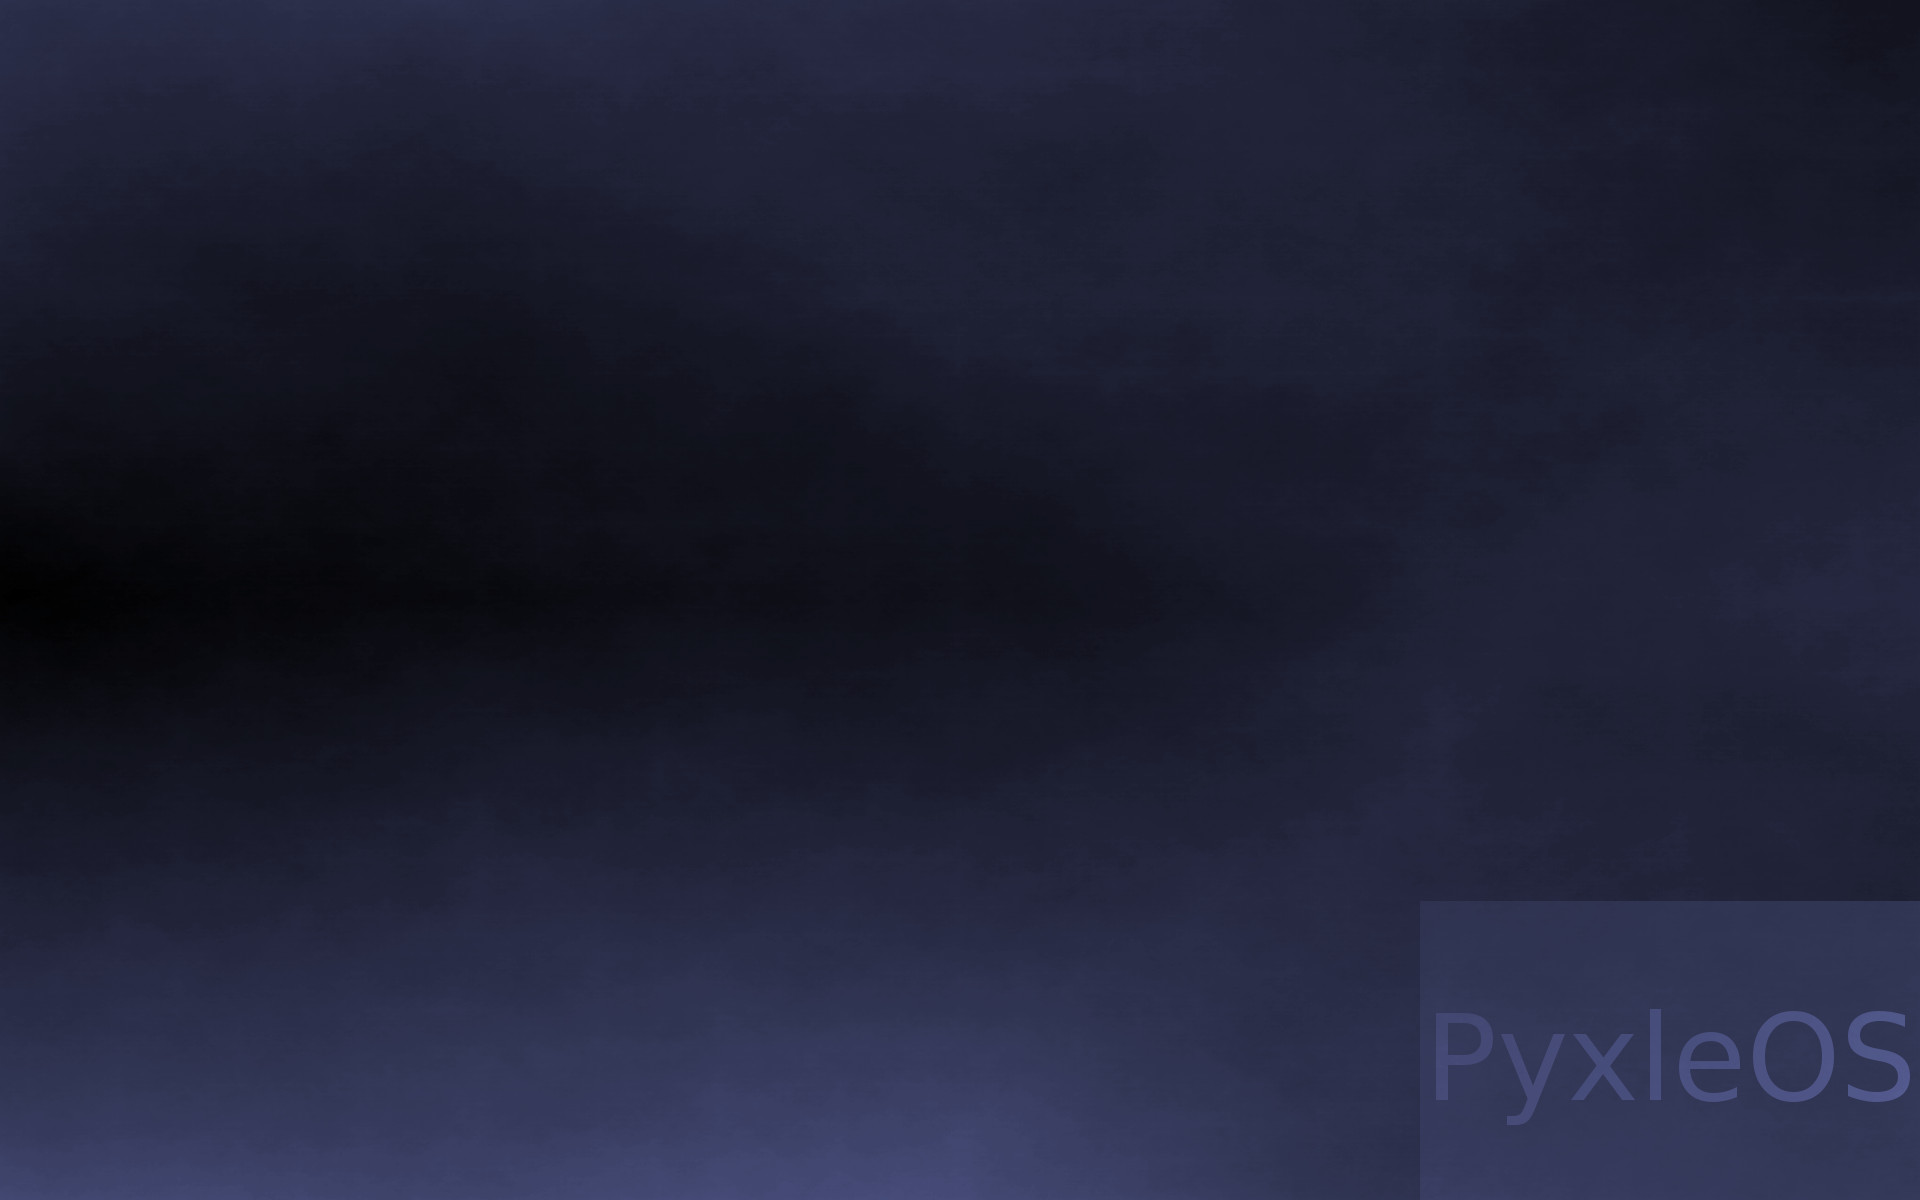
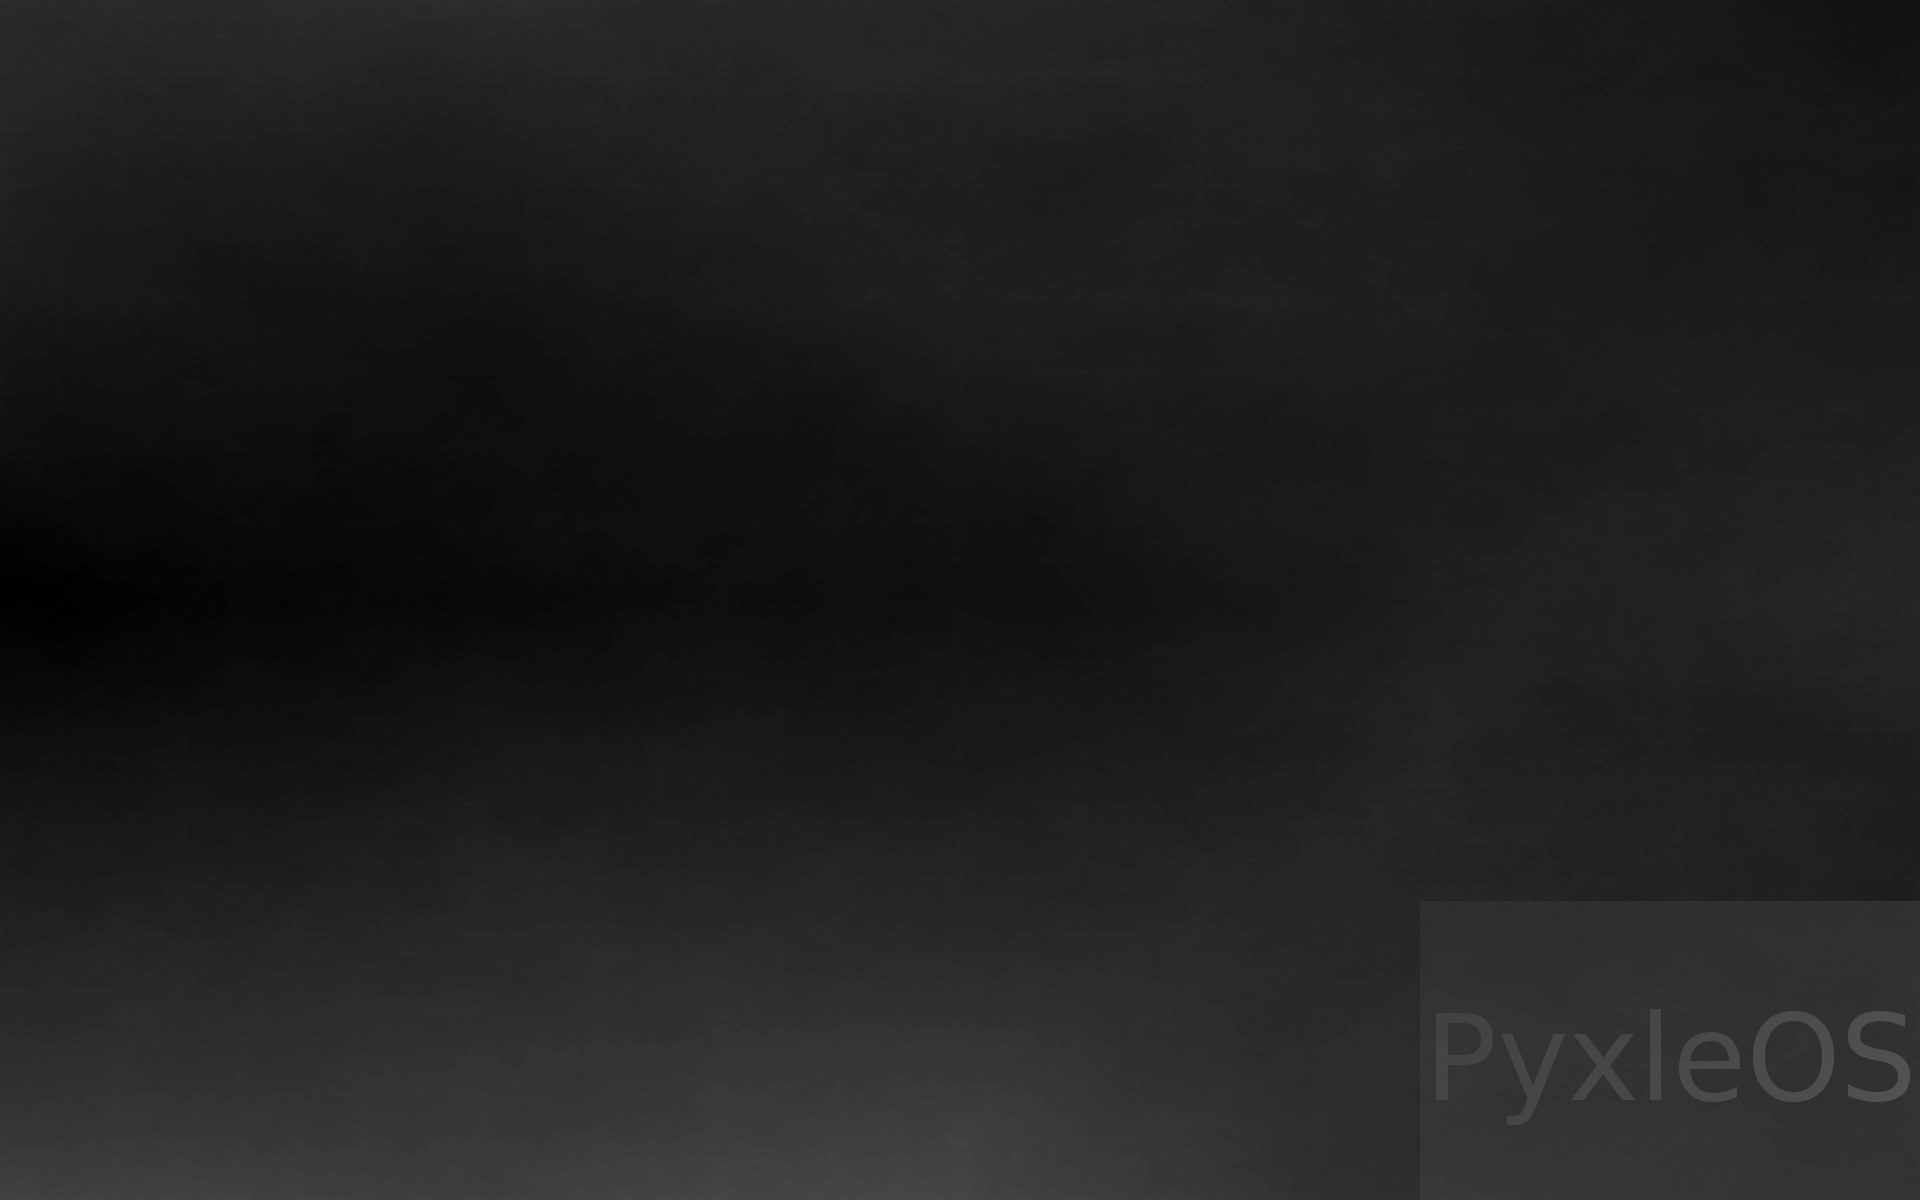
UI customization in runtime works

diff --git a/src/main/java/com/dakkra/pyxleos/ui/UISettingsView.java b/src/main/java/com/dakkra/pyxleos/ui/UISettingsView.java
@@ -1,8 +1,11 @@
 package com.dakkra.pyxleos.ui;
 
+import java.awt.Color;
 import java.awt.FlowLayout;
+import java.awt.event.ActionEvent;
+import java.awt.event.ActionListener;
 
-import javax.swing.JButton;
+import javax.swing.JColorChooser;
 import javax.swing.JInternalFrame;
 import javax.swing.JLabel;
 import javax.swing.JPanel;
@@ -24,28 +27,39 @@ public class UISettingsView {
 		JInternalFrame frame = Util.createIFrame("Appearance");
 
 		FlowLayout layout = new FlowLayout();
-		layout.setAlignment(FlowLayout.LEFT);
+		layout.setAlignment(FlowLayout.RIGHT);
 
 		JPanel bgColorPanel = new JPanel();
 		bgColorPanel.setLayout(layout);
+		bgColorPanel.setBackground(Color.DARK_GRAY.darker());
 		bgColorPanel.add(new JLabel("BG Color: "));
 		ColorButton bgColorButton = new ColorButton(uis.getbgColor());
+		bgColorButton.addActionListener(new BGColorButtonEar(bgColorButton));
 		bgColorPanel.add(bgColorButton);
 
 		JPanel baseColorPanel = new JPanel();
 		baseColorPanel.setLayout(layout);
+		baseColorPanel.setBackground(Color.DARK_GRAY.darker());
 		baseColorPanel.add(new JLabel("Base Color: "));
-		baseColorPanel.add(new JButton("Color"));
+		ColorButton baseColorButton = new ColorButton(uis.getbaseColor());
+		baseColorButton.addActionListener(new BaseColorButtonEar(baseColorButton));
+		baseColorPanel.add(baseColorButton);
 
 		JPanel baseRedColorPanel = new JPanel();
 		baseRedColorPanel.setLayout(layout);
+		baseRedColorPanel.setBackground(Color.DARK_GRAY.darker());
 		baseRedColorPanel.add(new JLabel("Red Color: "));
-		baseRedColorPanel.add(new JButton("Color"));
+		ColorButton redColorButton = new ColorButton(uis.getbaseRedColor());
+		redColorButton.addActionListener(new RedColorButtonEar(redColorButton));
+		baseRedColorPanel.add(redColorButton);
 
 		JPanel textColorPanel = new JPanel();
 		textColorPanel.setLayout(layout);
+		textColorPanel.setBackground(Color.DARK_GRAY.darker());
 		textColorPanel.add(new JLabel("TextColor: "));
-		textColorPanel.add(new JButton("Color"));
+		ColorButton textColorButton = new ColorButton(uis.gettextColor());
+		textColorButton.addActionListener(new TextColorButtonEar(textColorButton));
+		textColorPanel.add(textColorButton);
 
 		frame.setLayout(layout);
 		frame.add(bgColorPanel);
@@ -53,6 +67,81 @@ public class UISettingsView {
 		frame.add(baseRedColorPanel);
 		frame.add(textColorPanel);
 
+		frame.setSize(425, 205);
+		frame.setResizable(false);
+
 		mw.addIFrame(frame);
+	}
+
+	private class BGColorButtonEar implements ActionListener {
+		ColorButton button;
+		
+		public BGColorButtonEar(ColorButton button){
+			this.button = button;
+		}
+
+		@Override
+		public void actionPerformed(ActionEvent e) {
+			Color newColor = JColorChooser.showDialog(null, "Color", uis.getbgColor());
+			uis.setbgColor(newColor);
+			mw.updateNimbus();
+			mw.updateGUI();
+			button.setColor(newColor);
+		}
+
+	}
+	
+	private class BaseColorButtonEar implements ActionListener {
+		ColorButton button;
+		
+		public BaseColorButtonEar(ColorButton button){
+			this.button = button;
+		}
+
+		@Override
+		public void actionPerformed(ActionEvent e) {
+			Color newColor = JColorChooser.showDialog(null, "Color", uis.getbaseColor());
+			uis.setbaseColor(newColor);
+			mw.updateNimbus();
+			mw.updateGUI();
+			button.setColor(newColor);
+		}
+
+	}
+	
+	private class RedColorButtonEar implements ActionListener {
+		ColorButton button;
+		
+		public RedColorButtonEar(ColorButton button){
+			this.button = button;
+		}
+
+		@Override
+		public void actionPerformed(ActionEvent e) {
+			Color newColor = JColorChooser.showDialog(null, "Color", uis.getbaseRedColor());
+			uis.setbaseRedColor(newColor);
+			mw.updateNimbus();
+			mw.updateGUI();
+			button.setColor(newColor);
+		}
+
+	}
+	
+	private class TextColorButtonEar implements ActionListener {
+		ColorButton button;
+		
+		public TextColorButtonEar(ColorButton button){
+			this.button = button;
+		}
+
+		@Override
+		public void actionPerformed(ActionEvent e) {
+			Color newColor = JColorChooser.showDialog(null, "Color", uis.gettextColor());
+			uis.settextColor(newColor);
+			mw.updateNimbus();
+			mw.updateGUI();
+			button.setColor(newColor);
+		}
+
 	}
 }

diff --git a/src/main/java/com/dakkra/pyxleos/ui/components/ColorButton.java b/src/main/java/com/dakkra/pyxleos/ui/components/ColorButton.java
@@ -2,6 +2,8 @@ package com.dakkra.pyxleos.ui.components;
 
 import java.awt.Color;
 import java.awt.Graphics;
+import java.awt.Graphics2D;
+import java.awt.RenderingHints;
 
 import javax.swing.JButton;
 
@@ -11,19 +13,29 @@ public class ColorButton extends JButton {
 	Color color;
 
 	public ColorButton(Color color) {
+		this.setText("                                                                        ");
 		this.color = color;
 		updateUI();
 	}
-	
-	public void setColor(Color color){
+
+	public void setColor(Color color) {
 		this.color = color;
 		updateUI();
 	}
 
 	@Override
-	public void paintComponent(Graphics g) {
+	public void paintComponent(Graphics g1) {
+		Graphics2D g = (Graphics2D) g1;
+		g.setRenderingHint(RenderingHints.KEY_STROKE_CONTROL,
+				RenderingHints.VALUE_STROKE_PURE);
+		g.setRenderingHint(RenderingHints.KEY_ANTIALIASING,
+				RenderingHints.VALUE_ANTIALIAS_ON);
+
+		g.setColor(Color.BLACK);
+		g.fillRoundRect(0, 0, this.getWidth(), this.getHeight(), 20, 20);
 		g.setColor(color);
-		g.fillRect(0, 0, this.getWidth(), this.getHeight());
+		g.fillRect(6, 6, this.getWidth() - 12, this.getHeight() - 12);
+
 	}
 
 }

diff --git a/src/main/java/com/dakkra/pyxleos/ui/painters/DesktopPainter.java b/src/main/java/com/dakkra/pyxleos/ui/painters/DesktopPainter.java
@@ -1,5 +1,6 @@
 package com.dakkra.pyxleos.ui.painters;
 
+import java.awt.Color;
 import java.awt.Graphics2D;
 import java.awt.Image;
 import java.awt.RenderingHints;
@@ -10,11 +11,13 @@ import javax.swing.Painter;
 import com.dakkra.pyxleos.ui.UISettings;
 
 public class DesktopPainter implements Painter<JDesktopPane> {
-    private Image image;
+	private Image image;
+	private UISettings uis;
 
-    public DesktopPainter(UISettings uis) {
-    	image = uis.getbgImage();
-    }
+	public DesktopPainter(UISettings uis) {
+		this.uis = uis;
+		image = uis.getbgImage();
+	}
 
 	@Override
 	public void paint(Graphics2D g, JDesktopPane object, int width, int height) {
@@ -23,6 +26,10 @@ public class DesktopPainter implements Painter<JDesktopPane> {
 		g.setRenderingHint(RenderingHints.KEY_ANTIALIASING,
 				RenderingHints.VALUE_ANTIALIAS_ON);
 		g.drawImage(image, 0, 0, width, height, null);
-		
+		Color backColor = new Color(uis.getbgColor().getRed(), uis.getbgColor()
+				.getGreen(), uis.getbgColor().getBlue(), 100);
+		g.setColor(backColor);
+		g.fillRect(0, 0, width, height);
+
 	}
 }

diff --git a/src/main/java/com/dakkra/pyxleos/ui/MainWindow.java b/src/main/java/com/dakkra/pyxleos/ui/MainWindow.java
@@ -2,6 +2,7 @@ package com.dakkra.pyxleos.ui;
 
 import java.awt.BorderLayout;
 import java.awt.Color;
+import java.awt.Component;
 import java.awt.Dimension;
 import java.awt.Image;
 import java.awt.Point;
@@ -39,7 +40,7 @@ public class MainWindow {
 	private JFrame mFrame;
 
 	private UISettings uis;
-	
+
 	private UISettingsView uisv;
 
 	// Constructor
@@ -108,6 +109,14 @@ public class MainWindow {
 		jdp.setComponentZOrder(iFrame, 0);
 		jdp.setSelectedFrame(iFrame);
 	}
+	
+	public void updateGUI(){
+		Component[] components = mFrame.getComponents();
+		
+		for (int i = 0; i < components.length; i++){
+			components[i].repaint();
+		}
+	}
 
 	private void initializeMainMenu() {
 
@@ -152,7 +161,7 @@ public class MainWindow {
 		mFrame.setJMenuBar(menuBar);
 	}
 
-	private void updateNimbus() {
+	public void updateNimbus() {
 		Color bgColor = uis.getbgColor();
 		Color baseColor = uis.getbaseColor();
 		Color baseRedColor = uis.getbaseRedColor();

diff --git a/src/main/java/com/dakkra/pyxleos/util/Util.java b/src/main/java/com/dakkra/pyxleos/util/Util.java
@@ -37,8 +37,8 @@ public class Util {
 			return;
 		}
 	}
-	
-	public static void exitIFrame(JInternalFrame iFrame){
+
+	public static void exitIFrame(JInternalFrame iFrame) {
 		int confirm = JOptionPane.showConfirmDialog(null,
 				"Are you sure you want to close this module?");
 		if (confirm == JOptionPane.OK_OPTION) {
